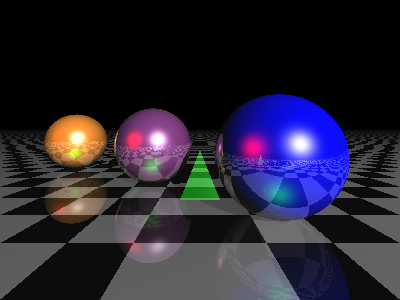
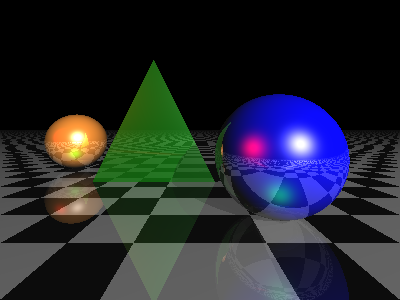
Corrección posición triángulo

diff --git a/ray-tracing/raytracing.py b/ray-tracing/raytracing.py
@@ -28,8 +28,9 @@ import matplotlib.pyplot as plt
 w = 400
 h = 300
 
+view_direction=np.array([0., 0., 0.])
+
 def normalize(x):
-    x = np.array(x, dtype=np.float64) #asegurarse de que x se convierte a float64
     x /= np.linalg.norm(x)
     return x
 
@@ -64,16 +65,12 @@ def intersect_sphere(O, D, S, R):
             return t1 if t0 < 0 else t0
     return np.inf
 
-def intersect_triangle(O, D, vertices):
+def intersect_triangle(O, D, vertices, N):
     # Return the distance from O to the intersection of the ray (O, D) with the 
     # triangle defined by its vertices, or +inf if there is no intersection.
     # O and vertices are 3D points, D (direction) is a normalized vector.
 
     v0, v1, v2 = vertices
-
-    # Calcular la normal del triángulo
-    N = np.cross(v1 - v0, v2 - v0)
-    N = normalize(N)
 
     # Calcular la intersección del triángulo con el plano
     t = intersect_plane(O, D, v0, N)
@@ -109,7 +106,7 @@ def intersect(O, D, obj):
     elif obj['type'] == 'sphere':
         return intersect_sphere(O, D, obj['position'], obj['radius'])
     elif obj['type'] == 'triangle':
-        return intersect_triangle(O, D, obj['vertices'])
+        return intersect_triangle(O, D, obj['vertices'], obj['normal'])
 
 def get_normal_triangle(vertices):
     # Return the normal vector of the triangle defined by its vertices.
@@ -132,7 +129,7 @@ def get_normal(obj, M):
     elif obj['type'] == 'plane':
         N = obj['normal']
     elif obj['type'] == 'triangle':
-        N = get_normal_triangle(obj['vertices'])
+        N = obj['normal']
     return N
     
 def get_color(obj, M):
@@ -194,17 +191,28 @@ def add_plane(position, normal):
             if (int(M[0] * 2) % 2) == (int(M[2] * 2) % 2) else color_plane1),
         diffuse_c=.75, specular_c=.5, reflection=.25)
 
+def is_normal_front_facing(normal):
+    dot_product = np.dot(normal, view_direction)
+    return dot_product >= 0
+
+
 def add_triangle(vertices, color):
-    return dict(type='triangle', vertices=np.array(vertices), color=np.array(color), reflection=.5)
+    # Calcular la normal del triángulo
+    N=get_normal_triangle(vertices)
+    
+    # Verificar que la dirección de la normal sea hacia delante para que se vea el color
+    if not is_normal_front_facing(N):
+        N *= -1
+
+    return dict(type='triangle', vertices=[np.array(v) for v in vertices], color=np.array(color), normal=N, diffuse_c=.75, specular_c=.5, reflection=.25)
 
 # List of objects.
 color_plane0 = 1. * np.ones(3)
 color_plane1 = 0. * np.ones(3)
 scene = [add_sphere([.75, .1, 1.], .6, [0., 0., 1.]),
-         add_sphere([-.75, .1, 2.25], .6, [.5, .223, .5]),
          add_sphere([-2.75, .1, 3.5], .6, [1., .572, .184]),
+         add_triangle([np.array((-1.75, -.5, 2.25)), np.array((-0.75, 1.5, 2.25)), np.array((.25, -.5, 2.25))], (0., 0.5, 0.)),
          add_plane([0., -.5, 0.], [0., 1., 0.]),
-         add_triangle([(-0.1, 0., 0.), (0., .25, 0.), (.1, 0., 0.)], (0., 0.5, 0.)),
     ]
 
 # Light position and color.
@@ -229,15 +237,15 @@ specular_k = 50
 
 depth_max = 5  # Maximum number of light reflections.
 col = np.zeros(3)  # Current color.
-# O = np.array([0., 0.35, -1.])  # Posición de la cámara (frontal).
-O = np.array([0., 100., -200.])  # Posición de la cámara (desde arriba).
-Q = np.array([0., 0., 0.])  # Cámara apuntando al centro de la escena.
+O = np.array([0., 0.35, -1.])  # Posición de la cámara (frontal).
+# O = np.array([0., 100., -200.])  # Posición de la cámara (desde arriba).
+Q = view_direction  # Cámara apuntando al centro de la escena.
 img = np.zeros((h, w, 3))
 
 r = float(w) / h
 # Screen coordinates: x0, y0, x1, y1.
-# S = (-1., -1. / r + .25, 1., 1. / r + .25) # para vista frontal
-S = (-r, -1. + .25, r, 1. + .25) # para vista cenital, ajustar límites de pantalla
+S = (-1., -1. / r + .25, 1., 1. / r + .25) # para vista frontal
+# S = (-r, -1. + .25, r, 1. + .25) # para vista cenital, ajustar límites de pantalla
 
 # Loop through all pixels.
 for i, x in enumerate(np.linspace(S[0], S[2], w)):

diff --git a/README.md b/README.md
@@ -21,7 +21,7 @@ Para modificar as fontes de luz deberán modificarse as variables L (posición d
 A modo de exemplo, no ficheiro figEj1.png poden verse 3 fontes de luz (unha blanca, unha vermella e unha verde). 
 
 ### Ejercicio 2
-triangle = add_triangle([(x1, y1, z1), (x2, y2, z2), (x3, y3, z3)], (r, g, b))
+triangle = add_triangle([np.array((x1, y1, z1)), np.array((x2, y2, z2)), np.array((x3, y3, z3))], (r, g, b))
 
 (x1, y1, z1), (x2, y2, z2), (x3, y3, z3) son as coordenadas dos vértices do triángulo e (r, g, b) é a cor do triángulo en formato RGB.
 
